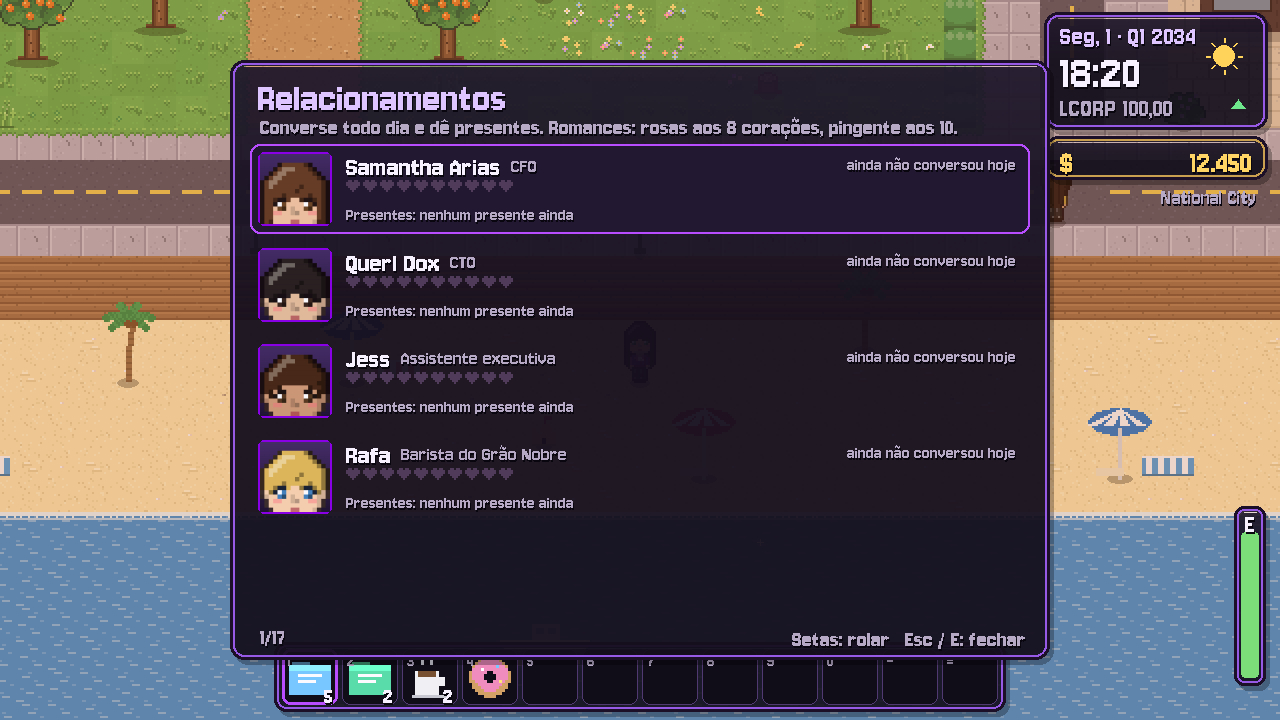
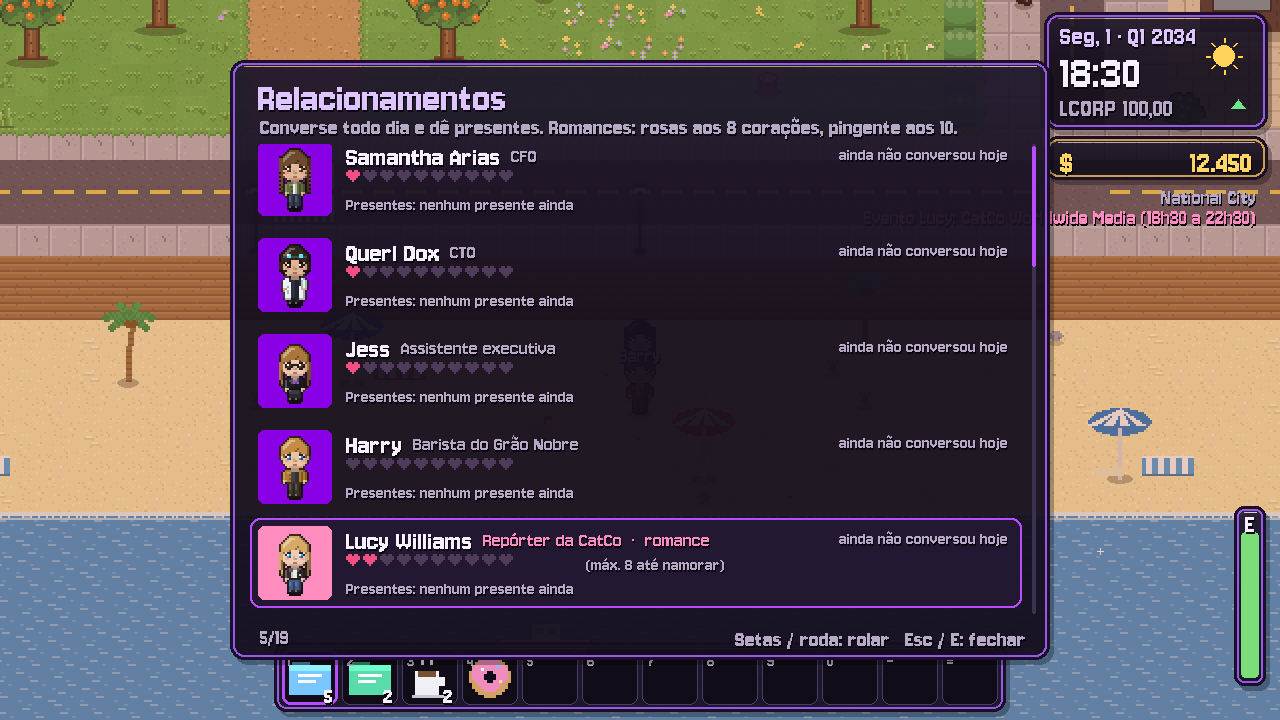
Site e README: capturas novas do jogo e atalhos O/R
- 18 capturas refeitas com os bonequinhos, roupas e telas atuais
- README: fileira de personagens com Ian e Barry; teclas O e R

diff --git a/docs/index.html b/docs/index.html
@@ -297,6 +297,7 @@
         <div class="krow"><div class="k"><kbd>1</kbd>…<kbd>0</kbd><kbd>-</kbd><kbd>=</kbd></div><span>Escolher item da barra (ou roda do mouse)</span></div>
         <div class="krow"><div class="k"><kbd>F</kbd></div><span>Comer, beber ou ler o item escolhido</span></div>
         <div class="krow"><div class="k"><kbd>I</kbd><kbd>Tab</kbd></div><span>Abrir a mochila (24 espaços)</span></div>
+        <div class="krow"><div class="k"><kbd>O</kbd><kbd>R</kbd></div><span>Objetivos / relacionamentos</span></div>
         <div class="krow"><div class="k"><kbd>Esc</kbd></div><span>Menu: objetivos, relacionamentos, coleções e cenas</span></div>
         <div class="krow"><div class="k"><kbd>←</kbd><kbd>↓</kbd><kbd>↑</kbd><kbd>→</kbd></div><span>Karaokê (ou <kbd>D</kbd><kbd>F</kbd><kbd>J</kbd><kbd>K</kbd>)</span></div>
         <div class="krow"><div class="k"><kbd>F11</kbd></div><span>Tela cheia</span></div>

diff --git a/README.md b/README.md
@@ -15,7 +15,7 @@ Simulação de vida em pixel art, no estilo Stardew Valley, feita em Python.
 
 <img src="docs/img/title.png" width="820" alt="Tela de título do Luthor Life">
 
-<img src="docs/img/chars/leticia.png" height="72"> <img src="docs/img/chars/lucy.png" height="72"> <img src="docs/img/chars/sam.png" height="72"> <img src="docs/img/chars/brainy.png" height="72"> <img src="docs/img/chars/vittoria.png" height="72"> <img src="docs/img/chars/jess.png" height="72"> <img src="docs/img/chars/cat.png" height="34"> <img src="docs/img/chars/milany.png" height="72"> <img src="docs/img/chars/nia.png" height="72"> <img src="docs/img/chars/rafa.png" height="72"> <img src="docs/img/chars/dog.png" height="34"> <img src="docs/img/chars/joca.png" height="72">
+<img src="docs/img/chars/leticia.png" height="76"> <img src="docs/img/chars/lucy.png" height="76"> <img src="docs/img/chars/vittoria.png" height="76"> <img src="docs/img/chars/sam.png" height="76"> <img src="docs/img/chars/brainy.png" height="76"> <img src="docs/img/chars/jess.png" height="76"> <img src="docs/img/chars/cat.png" height="34"> <img src="docs/img/chars/ian.png" height="76"> <img src="docs/img/chars/barry.png" height="76"> <img src="docs/img/chars/nia.png" height="76"> <img src="docs/img/chars/rafa.png" height="76"> <img src="docs/img/chars/dog.png" height="34"> <img src="docs/img/chars/milany.png" height="76"> <img src="docs/img/chars/joca.png" height="76">
 
 ### [🌐 Conheça o jogo no site](https://luthorw.github.io/Luthor-Life/)
 
@@ -89,6 +89,7 @@ O jogo salva sozinho toda noite, quando você dorme (em `saves/save.json`).
 | `1`–`0`, `-`, `=` / roda do mouse | Escolher item da barra |
 | `F` / botão direito | Comer, beber ou ler |
 | `I` / `Tab` | Mochila |
+| `O` / `R` | Objetivos / relacionamentos |
 | `Esc` | Menu: objetivos, relacionamentos, coleções e cenas |
 | setas ou `D` `F` `J` `K` | Karaokê |
 | `F11` | Tela cheia |
